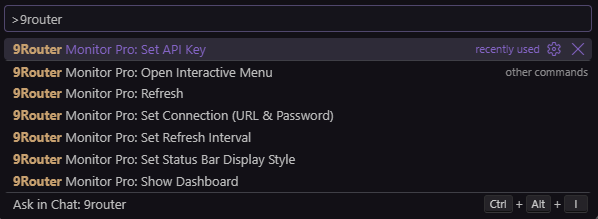
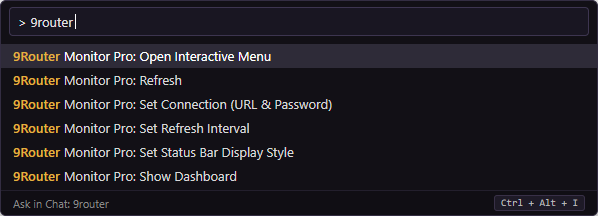
fix: loai bo hoan toan command setApiKey thua va cap nhat anh screenshot-commands
- Xoa dang ky command aiTokenUsage.setApiKey khoi package.json va src/extension.ts
- Don dep cac tham chieu setApiKey khoi dashboardPanel.ts va quickMenu.ts
- Cap nhat bang Command Reference trong README.md
- Tao lai anh media/screenshot-commands.png pixel-perfect chi gom 6 command chuan

Changed region(s): [[0.0, 0.0, 1.0, 1.0]]

diff --git a/src/ui/quickMenu.ts b/src/ui/quickMenu.ts
@@ -11,7 +11,6 @@ import {
   getAuthContext,
   getLocalCliToken,
   loginDashboard,
-  SECRET_API_KEY,
   SECRET_PASSWORD,
   SECRET_SESSION_TOKEN
 } from '../services/authManager';
@@ -105,34 +104,6 @@ export async function setConnection(
     }
   }
 
-  await onRefresh();
-}
-
-export async function setApiKey(
-  context: vscode.ExtensionContext,
-  onRefresh: () => Promise<void>
-): Promise<void> {
-  const existing = await context.secrets.get(SECRET_API_KEY);
-  const value = await vscode.window.showInputBox({
-    title: '9Router Monitor Pro — API Key',
-    prompt: 'Enter your 9Router API key. Leave blank to delete saved key.',
-    password: true,
-    value: existing ?? '',
-    ignoreFocusOut: true,
-    placeHolder: 'sk-...'
-  });
-
-  if (value === undefined) {
-    return;
-  }
-
-  if (value.trim() === '') {
-    await context.secrets.delete(SECRET_API_KEY);
-    vscode.window.showInformationMessage('[9Router Pro] API key cleared.');
-  } else {
-    await context.secrets.store(SECRET_API_KEY, value.trim());
-    vscode.window.showInformationMessage('[9Router Pro] API key saved.');
-  }
   await onRefresh();
 }
 

diff --git a/src/ui/dashboardPanel.ts b/src/ui/dashboardPanel.ts
@@ -25,7 +25,7 @@ import {
 import { displayName, quotaTitle } from '../utils/helpers';
 import { getWebviewContent } from '../views/dashboardTemplate';
 import { renderStatusBar } from './statusBar';
-import { setApiKey, setConnection } from './quickMenu';
+import { setConnection } from './quickMenu';
 
 export function syncDashboardWebview(
   context: vscode.ExtensionContext,
@@ -116,9 +116,6 @@ export async function showDetails(
         syncDashboardWebview(context, cfg);
       } else if (msg.command === 'setConnection') {
         await setConnection(context, () => onRefresh(true));
-        syncDashboardWebview(context, cfg);
-      } else if (msg.command === 'changeApiKey') {
-        await setApiKey(context, () => onRefresh(true));
         syncDashboardWebview(context, cfg);
       } else if (
         (msg.command === 'togglePinAccount' || msg.command === 'pinAccount') &&

diff --git a/src/extension.ts b/src/extension.ts
@@ -20,8 +20,7 @@ import {
   openQuickMenu,
   setConnection,
   setRefreshInterval,
-  setDisplayMode,
-  setApiKey
+  setDisplayMode
 } from './ui/quickMenu';
 import { showDetails, syncDashboardWebview } from './ui/dashboardPanel';
 
@@ -45,9 +44,6 @@ export function activate(context: vscode.ExtensionContext): void {
     ),
     vscode.commands.registerCommand('aiTokenUsage.refresh', () =>
       refresh(context, true)
-    ),
-    vscode.commands.registerCommand('aiTokenUsage.setApiKey', () =>
-      setApiKey(context, () => refresh(context))
     ),
     vscode.commands.registerCommand('aiTokenUsage.setConnection', () =>
       setConnection(context, () => refresh(context))

diff --git a/README.md b/README.md
@@ -128,7 +128,6 @@ All commands are prefixed with `9Router Monitor Pro` in the Command Palette (`Ct
 | `aiTokenUsage.setConnection` | `Set Connection (URL & Password)` | Configure Base URL (Cloudflare Tunnel or Local) and Dashboard Password |
 | `aiTokenUsage.setDisplayMode` | `Set Status Bar Display Style` | Switch between Compact, Detailed, and Minimal status bar styles |
 | `aiTokenUsage.setInterval` | `Set Refresh Interval` | Set auto-refresh frequency (15s, 30s, 60s, 2m, 5m, or custom) |
-| `aiTokenUsage.setApiKey` | `Set API Key` | Manually store or remove a custom 9Router API key |
 
 ---
 
